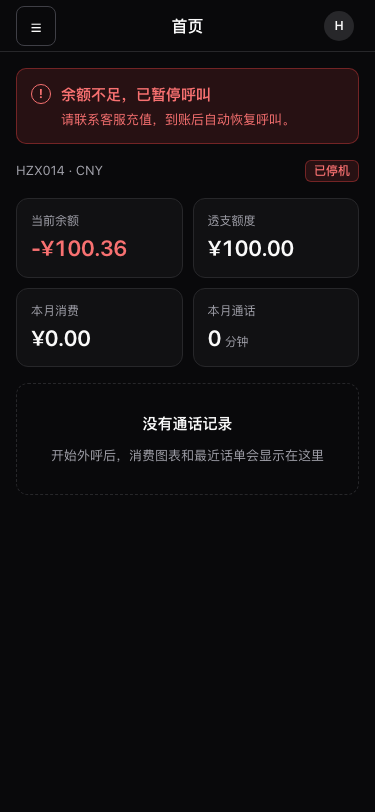
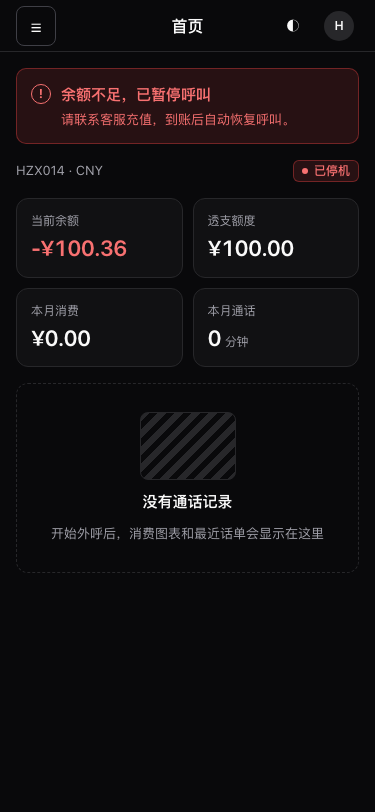
docs: 复拍首页对照图并改写差异清单（剩余差异记为接受）

diff --git a/docs/evidence/phase-6-web/visual-diff.md b/docs/evidence/phase-6-web/visual-diff.md
@@ -2,73 +2,60 @@
 
 对应 [plan.md](../../plan.md) 阶段 6 验收项「透支中、已停机、无话单三种状态的截图与设计稿一致」，口径见 [phase-6-design.md 决定 6](../../phase-6-design.md#已决定)：电脑透支 1a、手机透支 1b、手机已停机 1c、手机无话单 1d，各含浅色与深色；电脑端已停机、无话单稿中没有画框，只存档，按手机稿核对。
 
-**结论：这一项没有勾选。** 8 张对照图没有一张与设计稿逐像素一致，下文逐项列出差异。其中 (a) 类是已记录的有意改动，(b) 类是种子数据与稿中示例不同，(c) 类是未经决定的偏离，需要用户判断是改实现、改稿还是接受。没有发现明确的缺陷，本 PR 没有改动任何界面代码。
+**结论：该项已勾选。** 第一轮对照发现 7 处未经决定的偏离，用户 2026-10-22 决定按稿修正（决定 43），已修正并复拍；剩余差异全部是 (a) 已决定的改动、(b) 种子数据与稿中示例不同、(d) 画框外壳，用户决定记为接受。没有发现明确缺陷。
 
 ## 运行信息
 
 | 项目     | 值                                                                                                                                                       |
 | -------- | -------------------------------------------------------------------------------------------------------------------------------------------------------- |
-| 日期     | 2026-10-22                                                                                                                                               |
+| 日期     | 2026-10-22（第一轮对照后按用户决定修改界面，复拍为第二轮，本清单以第二轮为准）                                                                           |
 | 基线     | `main` 的 `93a95a7`（PR #51 合并之后），分支 `phase-6-pr7-acceptance`                                                                                    |
-| 脚本     | `apps/web/e2e/portal-visual.spec.ts` / `matches home frames 1a 1b 1c 1d in light and dark`，1 passed（约 11 秒），`visual/index.json` 中 12 项均无 error |
+| 脚本     | `apps/web/e2e/portal-visual.spec.ts` / `matches home frames 1a 1b 1c 1d in light and dark`，1 passed（约 13 秒），`visual/index.json` 中 14 项均无 error |
 | 命令     | `FSB_VISUAL=1 pnpm --filter @fs-billing/web exec playwright test e2e/portal-visual.spec.ts`（未设 `FSB_EVIDENCE_DIR` 时输出到本目录的 `visual/`）        |
 | 数据库   | 开发库 `fs_billing`，2026-10-22 重新 `db:seed` 之后；客户账号 ABC001（透支）、HZX014（已停机）、XYZ002（种子里没有话单），登录经接口，不走表单           |
 | 视口     | 电脑 1440×900 整页，手机 375×812 整页（稿中手机画框为 390 宽并含 44 px 状态栏，与阶段 4 的做法相同）                                                     |
 | 运行环境 | macOS 27.0.1，Node 22.23.2，Playwright 1.64.0 自带 Chromium（headless），`zh-CN`、`Asia/Shanghai`；字体为 macOS 系统字体，字形差别不算差异               |
 
-`visual/` 下共 29 个文件：`design-*.png` 是设计稿画框，`app-*.png` 是实现，`compare-*.png` 左侧为设计稿、右侧为实现（共 8 张）；电脑端已停机、无话单各浅色、深色共 4 张只有 `app-*.png`。`index.json` 记录每张图对应的账号与画框。
+`visual/` 下共 35 个文件：`design-*.png` 是设计稿画框，`app-*.png` 是实现，`compare-*.png` 左侧为设计稿、右侧为实现。8 张是四个状态各浅色深色；另有 2 张 `*-bubble-*` 是电脑透支图上把鼠标悬浮在 09-28 的柱子上的对照（稿 1a 的气泡画在今日柱上，种子里今日无消费，无法悬浮今日柱，只对照气泡样式）；电脑端已停机、无话单各浅色深色共 4 张只有 `app-*.png`。`index.json` 记录每张图对应的账号与画框。
 
-## 分类
+## 本轮修正（第一轮的差异，用户决定按稿修）
 
-- **(a)** 已决定或已记录的改动，引用对应决定或文档。
-- **(b)** 只是种子数据与稿中示例不同：账号、金额、日期、条数、状态。
-- **(c)** 未经决定的偏离，待用户判断。
-- **(d)** 对照方式造成：画框带设备外壳、整页截图与画框状态不同。
+| 差异                                               | 修正                                                                                                                                                                                            | 复拍结果                              |
+| -------------------------------------------------- | ----------------------------------------------------------------------------------------------------------------------------------------------------------------------------------------------- | ------------------------------------- |
+| 手机顶栏缺 ◐ 主题按钮                              | 门户外壳在手机顶栏头像左侧加无边框 40 px 的 ◐（复用 `ThemeMenu`）；后台手机顶栏不变，头像面板里的主题分段选择保留                                                                               | 1b 与稿一致                           |
+| 手机上状态标签没有圆点                             | `StatusTag` 加 `alwaysDot`，门户首页使用；后台手机稿没有圆点，默认行为不变；改了写错的代码注释                                                                                                  | 1b、1c、1d 与稿一致                   |
+| 「查看全部」无下划线                               | 加下划线（偏移 3 px，同稿）                                                                                                                                                                     | 电脑、手机与稿一致                    |
+| 手机图表卡标题行右侧是合计，「← 左右滑动」另起一行 | 手机上去掉合计，「← 左右滑动」放在标题行右侧；电脑不变                                                                                                                                          | 1b 与稿一致                           |
+| 横轴电脑 5 个日期、手机 3 个                       | `DailyChart` 加 `variant="portal"`：电脑与手机都是每 5 天一个，含首尾共 7 个；手机柱距 8 px。后台概况沿用 5 个与 3 个（稿为 `管理后台 第三批 · 租户详情`，没有改）                              | 1a、1b 与稿一致                       |
+| 悬浮提示是浏览器原生 `title`                       | 自绘深色气泡（浅色主题黑底白字，深色主题白底黑字，同稿），只显示日期与金额（决定 30）；键盘 Tab 进入后用方向键、Home、End 逐根查看，Esc 收起；触屏点柱子显示，点图外收起；柱子保留 `aria-label` | 对照图一致，见 `*-bubble-*`           |
+| 1d 空状态没有插图                                  | 加 96×68 的斜纹占位框（同稿，装饰性 `aria-hidden`），不写稿中占位框里的「空状态插图」说明文字                                                                                                   | 1d 与稿一致，仅缺占位说明文字（见下） |
 
-## 各张图共有的差异
+## 剩余差异（用户决定记为接受）
 
-| 编号 | 差异                                                                                               | 分类                                                                                                                                                                                                                     |
-| ---- | -------------------------------------------------------------------------------------------------- | ------------------------------------------------------------------------------------------------------------------------------------------------------------------------------------------------------------------------ |
-| V1   | 电脑侧栏只有「首页 / 话单 / 余额流水 / 账号设置」，稿中多一项「月账单」                            | (a)：决定 15，门户「月账单」导航属阶段 7，未开发的功能不显示                                                                                                                                                             |
-| V2   | 手机稿画框带 9:41 状态栏、信号图标和圆角机身                                                       | (d)：[phase-4-web.md](../../phase-4-web.md#与设计稿的差异)「手机设计稿的状态栏（9:41）和圆角机身属于画框，不实现」                                                                                                       |
-| V3   | 手机顶栏：稿中右侧有 ◐ 主题按钮加头像，实现只有头像；主题切换放在头像打开的底部面板里              | (c)：phase-4-web.md 记录的理由是「设计稿手机画框没有主题入口」，但门户第一批 1b、1c、1d 三个手机画框都有 ◐ 按钮，该理由对这三张稿不成立。实现不是缺陷（主题功能可用），是否把 ◐ 放回手机顶栏待用户决定                   |
-| V4   | 手机上租户状态标签（透支中、已停机、正常）不带圆点，稿中带圆点。电脑上两边都带                     | (c)：`components/status-tag.tsx` 的注释写「手机稿不带」，依据的是后台手机稿（阶段 5 修复 C3 按后台稿去掉了圆点）；门户 1b、1c、1d 手机画框带圆点。`StatusTag` 全站共用，只改门户首页需要加一个属性，没有改动，待用户决定 |
-| V5   | 顶栏右侧邮箱：稿中 `billing@abc-tech.cn`，实现为登录账号 `abc001@example.com` 等                   | (b)                                                                                                                                                                                                                      |
-| V6   | 「最近话单」的「查看全部」链接：稿中带下划线（电脑 `查看全部 →`、手机 `查看全部`），实现没有下划线 | (c)：稿中是 `<a>` 的默认下划线，实现用 `text-primary` 无下划线。是否跟稿加下划线待用户决定；决定 11「界面细节以设计稿为准」倾向跟稿，但改动属于样式取舍，没有擅自改                                                      |
-
-## 逐张结果
-
-8 张对照图全部为「有差异」。
-
-| 图                     | 主题 | 账号   | 差异与分类                                                                                                                                                                                                                                                                                                                                                                                                                                                                                                                                                                                                                                                                                                                                                                                                                            |
-| ---------------------- | ---- | ------ | ------------------------------------------------------------------------------------------------------------------------------------------------------------------------------------------------------------------------------------------------------------------------------------------------------------------------------------------------------------------------------------------------------------------------------------------------------------------------------------------------------------------------------------------------------------------------------------------------------------------------------------------------------------------------------------------------------------------------------------------------------------------------------------------------------------------------------------- |
-| 1a 电脑 · 透支中       | 浅色 | ABC001 | V1、V5、V6。余额 −¥35.20、可用额度 ¥64.80、透支额度 ¥100.00 与稿一致。本月消费 ¥0.00、本月通话 0 分钟、已接通 0 通（稿 ¥2,486.30、49,726 分钟、12,804 通，「2026年9月」）(b)：种子话单在 9 月，运行日是 10 月，本月无话单。图表区间 09-23 至 10-22、合计 ¥515.46（稿 08-31 至 09-29、¥2,373.64），柱子只到 09-28，今日（10-22）消费为零，所以稿中黑色高亮的今日柱和悬浮气泡在实现里看不到 (b)。横轴 5 个日期（稿 7 个：每 5 天一个，含首尾）(c)：`daily-spend-chart.tsx` 的 `dateTicks` 固定 5 个位置，未见决定记录。悬浮提示稿中是深色气泡，实现用浏览器原生 `title`，截图里不可见 (c)：决定 30 只定了内容（只显示金额）。最近话单表头「国家」（稿「国家/备注」）与国家列「英国 · 手机」（稿「英国手机」）(a)：决定 39。表只有 2 行（稿 10 行），被叫号码带 `+`（`+18765550100`，稿 `18765551234`）(b)：决定 31，种子话单 2 通已接通 |
-| 1a 电脑 · 透支中       | 深色 | ABC001 | 同浅色。深色下稿中今日柱为白色，实现无今日柱 (b)                                                                                                                                                                                                                                                                                                                                                                                                                                                                                                                                                                                                                                                                                                                                                                                      |
-| 1b 手机 · 透支中       | 浅色 | ABC001 | V2、V3、V4、V5、V6。四张统计卡数值同 1a 的 (b)。图表卡片标题行：稿右侧是「← 左右滑动」且没有合计，实现右侧是合计 ¥515.46、「← 左右滑动」另起一行 (c)：决定 30 之外没有手机合计的记录。手机横轴只留首、中、尾 3 个日期（09-23、10-07、10-22；稿可见 08-31、09-05、09-10、09-15，共 7 个）(c)：`dateTicks` 注释写「手机只留首、中、尾」，未见决定记录。柱子宽度也比稿宽：实现图表最小宽 620 px，稿更密。话单卡片 2 张（稿 5 张）(b)；卡片第二行「英国 · 手机 · 3分50秒」（稿「英国手机 · 0分01秒」）(a)：决定 39                                                                                                                                                                                                                                                                                                                        |
-| 1b 手机 · 透支中       | 深色 | ABC001 | 同浅色                                                                                                                                                                                                                                                                                                                                                                                                                                                                                                                                                                                                                                                                                                                                                                                                                                |
-| 1c 手机 · 已停机       | 浅色 | HZX014 | V2、V3、V4。横幅「余额不足，已暂停呼叫 / 请联系客服充值，到账后自动恢复呼叫。」文字、位置、配色与稿一致（决定 12）。租户行：稿 `ABC001 · CNY`，实现 `HZX014 · CNY` (b)。余额 −¥100.36、透支额度 ¥100.00 与稿一致；本月消费 ¥0.00、0 分钟（稿 ¥2,551.46、51,030 分钟）(b)。稿画框到统计卡为止；实现 HZX014 在种子里没有话单，卡片下面是「没有通话记录」空状态 (b)。电脑端桌面截图里该账号的余额卡显示「可用额度 −¥0.36」（余额加透支额度为负），稿的电脑版没有已停机画框，无从对照，记在这里供用户知晓                                                                                                                                                                                                                                                                                                                                 |
-| 1c 手机 · 已停机       | 深色 | HZX014 | 同浅色                                                                                                                                                                                                                                                                                                                                                                                                                                                                                                                                                                                                                                                                                                                                                                                                                                |
-| 1d 手机 · 新客户无话单 | 浅色 | XYZ002 | V2、V3、V4。状态与金额：稿是「正常」、余额 $200.00、透支额度 $15.00，实现种子账号为「透支中」、余额 −$4.82 (b)：种子 XYZ002 不是有余额的新客户，所以「正常」标签在空状态下没有被截图核对。空状态标题「没有通话记录」（稿「还没有通话记录」）(a)：决定 40，用户 2026-10-22 确认。稿中空状态卡里有一个标着「空状态插图」的占位图，实现没有 (c)：稿中是占位框，不是实际图片资产，实现未做，是否需要插图待用户决定。副文案「开始外呼后，消费图表和最近话单会显示在这里」与稿一致。卡片因此比稿矮                                                                                                                                                                                                                                                                                                                                          |
-| 1d 手机 · 新客户无话单 | 深色 | XYZ002 | 同浅色                                                                                                                                                                                                                                                                                                                                                                                                                                                                                                                                                                                                                                                                                                                                                                                                                                |
+| 编号 | 差异                                                                                                                                                                                                                                                                                 | 分类                                                                                                                      |
+| ---- | ------------------------------------------------------------------------------------------------------------------------------------------------------------------------------------------------------------------------------------------------------------------------------------ | ------------------------------------------------------------------------------------------------------------------------- |
+| R1   | 电脑侧栏没有「月账单」                                                                                                                                                                                                                                                               | (a)：决定 15，门户「月账单」属阶段 7                                                                                      |
+| R2   | 手机稿画框带 9:41 状态栏、信号图标和圆角机身                                                                                                                                                                                                                                         | (d)：[phase-4-web.md](../../phase-4-web.md#与设计稿的差异)，属于画框，不实现                                              |
+| R3   | 手机 1c、1d 稿的顶栏没有 ◐，只有 1b 有；实现在门户所有手机页面统一带 ◐                                                                                                                                                                                                               | (d)：稿内部不一致，按 1b 统一                                                                                             |
+| R4   | 顶栏右侧邮箱：稿 `billing@abc-tech.cn`，实现为登录账号 `abc001@example.com` 等                                                                                                                                                                                                       | (b)                                                                                                                       |
+| R5   | 统计与图表的数字、日期、话单条数：稿是 9 月 29 日有 10 通话单（手机 5 通），本月消费 ¥2,486.30、49,726 分钟；种子话单只有 2 通已接通、都在 9 月 28 日，运行日是 10 月 22 日，所以本月为 ¥0.00，图表区间 09-23 至 10-22，柱子只到 09-28，今日柱高亮无从显示                           | (b)：悬浮气泡的样式已用 `*-bubble-*` 对照；今日柱的黑色或白色高亮只在当日有消费时出现，由样式代码保证，没有被这批截图覆盖 |
+| R6   | 话单行的被叫号码带 `+`（`+18765550100`，稿 `18765551234`）；国家列「英国 · 手机」（稿「英国手机」）；表头「国家」（稿「国家/备注」）                                                                                                                                                 | (b)、(a)：决定 31、决定 39                                                                                                |
+| R7   | 悬浮气泡只有日期与金额，稿还写「· 1,702 通」                                                                                                                                                                                                                                         | (a)：决定 30                                                                                                              |
+| R8   | 1c：稿的租户行是 `ABC001`、余额 −¥100.36 但本月消费 ¥2,551.46；实现是 `HZX014`、本月 ¥0.00，下面是「没有通话记录」空状态（稿画框到统计卡为止）。横幅文字、位置与配色一致（决定 12）。电脑端该账号余额卡显示「可用额度 −¥0.36」（余额加透支额度为负），稿无电脑版已停机画框，无从对照 | (b)                                                                                                                       |
+| R9   | 1d：稿是「正常」、余额 $200.00，实现种子 XYZ002 为「透支中」、余额 −$4.82。「正常」标签在空状态下没有被截图核对                                                                                                                                                                      | (b)                                                                                                                       |
+| R10  | 1d 空状态标题「没有通话记录」（稿「还没有通话记录」）                                                                                                                                                                                                                                | (a)：决定 40，用户 2026-10-22 确认                                                                                        |
+| R11  | 1d 斜纹插图框里没有稿中的「空状态插图」说明文字                                                                                                                                                                                                                                      | 用户 2026-10-22 决定加插图；占位说明文字是设计工具的占位标注，不上线                                                      |
 
 ## 电脑端存档图（无画框，按手机稿核对）
 
-| 图                             | 主题       | 账号   | 核对结果                                                                                                                                                                                  |
-| ------------------------------ | ---------- | ------ | ----------------------------------------------------------------------------------------------------------------------------------------------------------------------------------------- |
-| `app-home-suspended-desktop-*` | 浅色、深色 | HZX014 | 横幅文字与手机稿 1c 一致，标题旁「已停机」标签带圆点，四张统计卡在横幅之后；横幅位于统计卡之上、标题之下（手机上横幅在租户行之上）。没有话单所以只有空状态。余额卡「可用额度 −¥0.36」见上 |
-| `app-home-no-calls-desktop-*`  | 浅色、深色 | XYZ002 | 空状态卡文字与手机稿 1d 一致（「没有通话记录」），无插图；账号状态为「透支中」，与稿的「正常」不同 (b)，原因同 1d                                                                         |
+| 图                             | 主题       | 账号   | 核对结果                                                                                                                                               |
+| ------------------------------ | ---------- | ------ | ------------------------------------------------------------------------------------------------------------------------------------------------------ |
+| `app-home-suspended-desktop-*` | 浅色、深色 | HZX014 | 横幅文字与手机稿 1c 一致，标题旁「已停机」标签带圆点，横幅位于统计卡之上、标题之下。没有话单所以只有空状态，空状态带斜纹插图。「可用额度 −¥0.36」见 R8 |
+| `app-home-no-calls-desktop-*`  | 浅色、深色 | XYZ002 | 空状态卡文字与手机稿 1d 一致（「没有通话记录」），带斜纹插图；账号状态为「透支中」，与稿的「正常」不同，见 R9                                          |
 
 ## 不能从这批截图得出的结论
 
-- 悬浮气泡、今日柱高亮和 31 天内零消费日的显示，需要当日有话单的数据；本批种子数据的话单都在 9 月 28 日，没有覆盖。
+- 今日柱高亮和 31 天内零消费日的显示，需要当日有话单的数据；本批种子数据的话单都在 9 月 28 日，没有覆盖。
 - 「正常」「余额不足」两个状态标签在首页上的样子没有被截图（种子里没有对应账号）。`StatusTag` 的颜色由单元测试与阶段 5 视觉对照覆盖。
-- 手机 375 px 之外的宽度（390 与稿画框同宽）没有截。
-
-## 需要用户判断的项
-
-1. V3：手机顶栏是否放回 ◐ 主题按钮（稿 1b、1c、1d 有；当前在头像底部面板里）。
-2. V4：门户首页手机上的状态标签是否按门户手机稿加圆点（需要给 `StatusTag` 加一个只对门户首页生效的属性，或改为全站手机都带圆点并同步后台手机稿）。
-3. V6：「查看全部」是否加下划线。
-4. 图表：横轴日期数量（电脑 5 个对稿 7 个，手机 3 个）、悬浮气泡样式（稿为自定义气泡，实现为原生 `title`）、手机图表卡标题行（合计与「← 左右滑动」的位置）。
-5. 1d：空状态是否加稿中占位的插图。
-6. 是否接受上述差异并勾选 plan.md 的该项；如果要求「与设计稿一致」，上述 (c) 类需要先处理。
+- 手机 375 px 之外的宽度（390 与稿画框同宽）没有截；触屏上的气泡由单元测试覆盖，没有截图。
+- 后台租户概况的图表：本 PR 没有重拍，只靠单元测试与 e2e 确认仍是 5 个与 3 个日期；它的稿见 `管理后台 第三批 · 租户详情.dc.html`，只有静态图，没有气泡。
